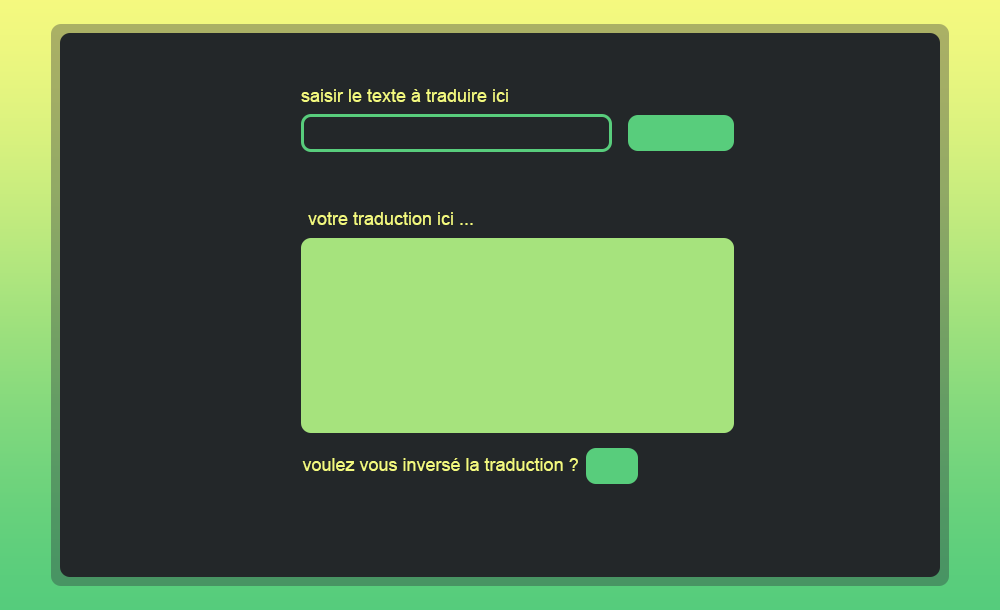
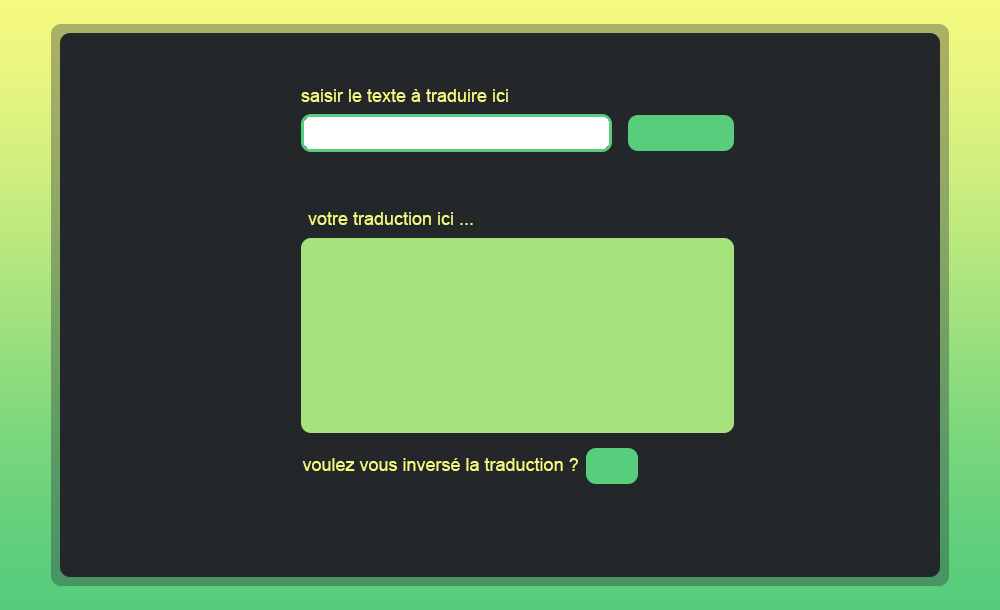
finission frame

Changed region(s): [[0.279, 0.1869, 0.62, 0.2492]]

diff --git a/views/homeScreen.py b/views/homeScreen.py
@@ -1,5 +1,6 @@
 from tkinter import *
 import tkinter as tk
+from tkinter import messagebox
 from tkinter import ttk
 
 home = tk.Tk()#initialise la fenêtre principale
@@ -10,10 +11,20 @@ label1 = Label( home, image = imgFrame)
 label1.place(x = 0, y = 0)#mettre à zero la place de l'image pour qu'il se positionne par défeaut
 frame1 = Frame(home)#metre l'image dans la fenetre home
 frame1.pack(pady = 20 )
-home.resizable(0,0)#à 0,0 la fênetre ne peut pas être agrandis
+home.resizable(0,0)#à 0,0 la taille de la fenetre ne peut plus etre modifié
+
+
+def Traduction():
+    messagebox.showinfo("TRADUCTION...", "Votre texte est en cours de traduction")
+def Inversion():
+    messagebox.showinfo("INVERSION...", "Votre traduction a bien été inversé")
+
+texteTraduire = tk.StringVar()
+texte_mot = ttk.Entry(home, textvariable=texteTraduire)
+texte_mot.place(x=320, y=119, width=280, height=30)
 
 #configuration du boutton Traduire
-traduireButton = Button(home, text="Traduire")
+traduireButton = Button(home, text="Traduire", command=Traduction)
 traduireButton.place(x=640, y=119, width=80, height=30)
 traduireButton.configure(overrelief="flat")
 traduireButton.configure(relief="flat")
@@ -25,7 +36,7 @@ traduireButton.configure(font="-family {Poppins SemiBold} -size 10")
 traduireButton.configure(borderwidth=0)
 
 #configuration du boutton changer de langue
-inversetraduireButton = Button(home, text="OK")
+inversetraduireButton = Button(home, text="OK", command=Inversion)
 inversetraduireButton.place(x=593, y=452, width=40, height=30)
 inversetraduireButton.configure(overrelief="flat")
 inversetraduireButton.configure(relief="flat")
@@ -35,4 +46,5 @@ inversetraduireButton.configure(foreground="white")
 inversetraduireButton.configure(cursor="hand2")
 inversetraduireButton.configure(font="-family {Poppins SemiBold} -size 10")
 inversetraduireButton.configure(borderwidth=0)
+
 home.mainloop()
